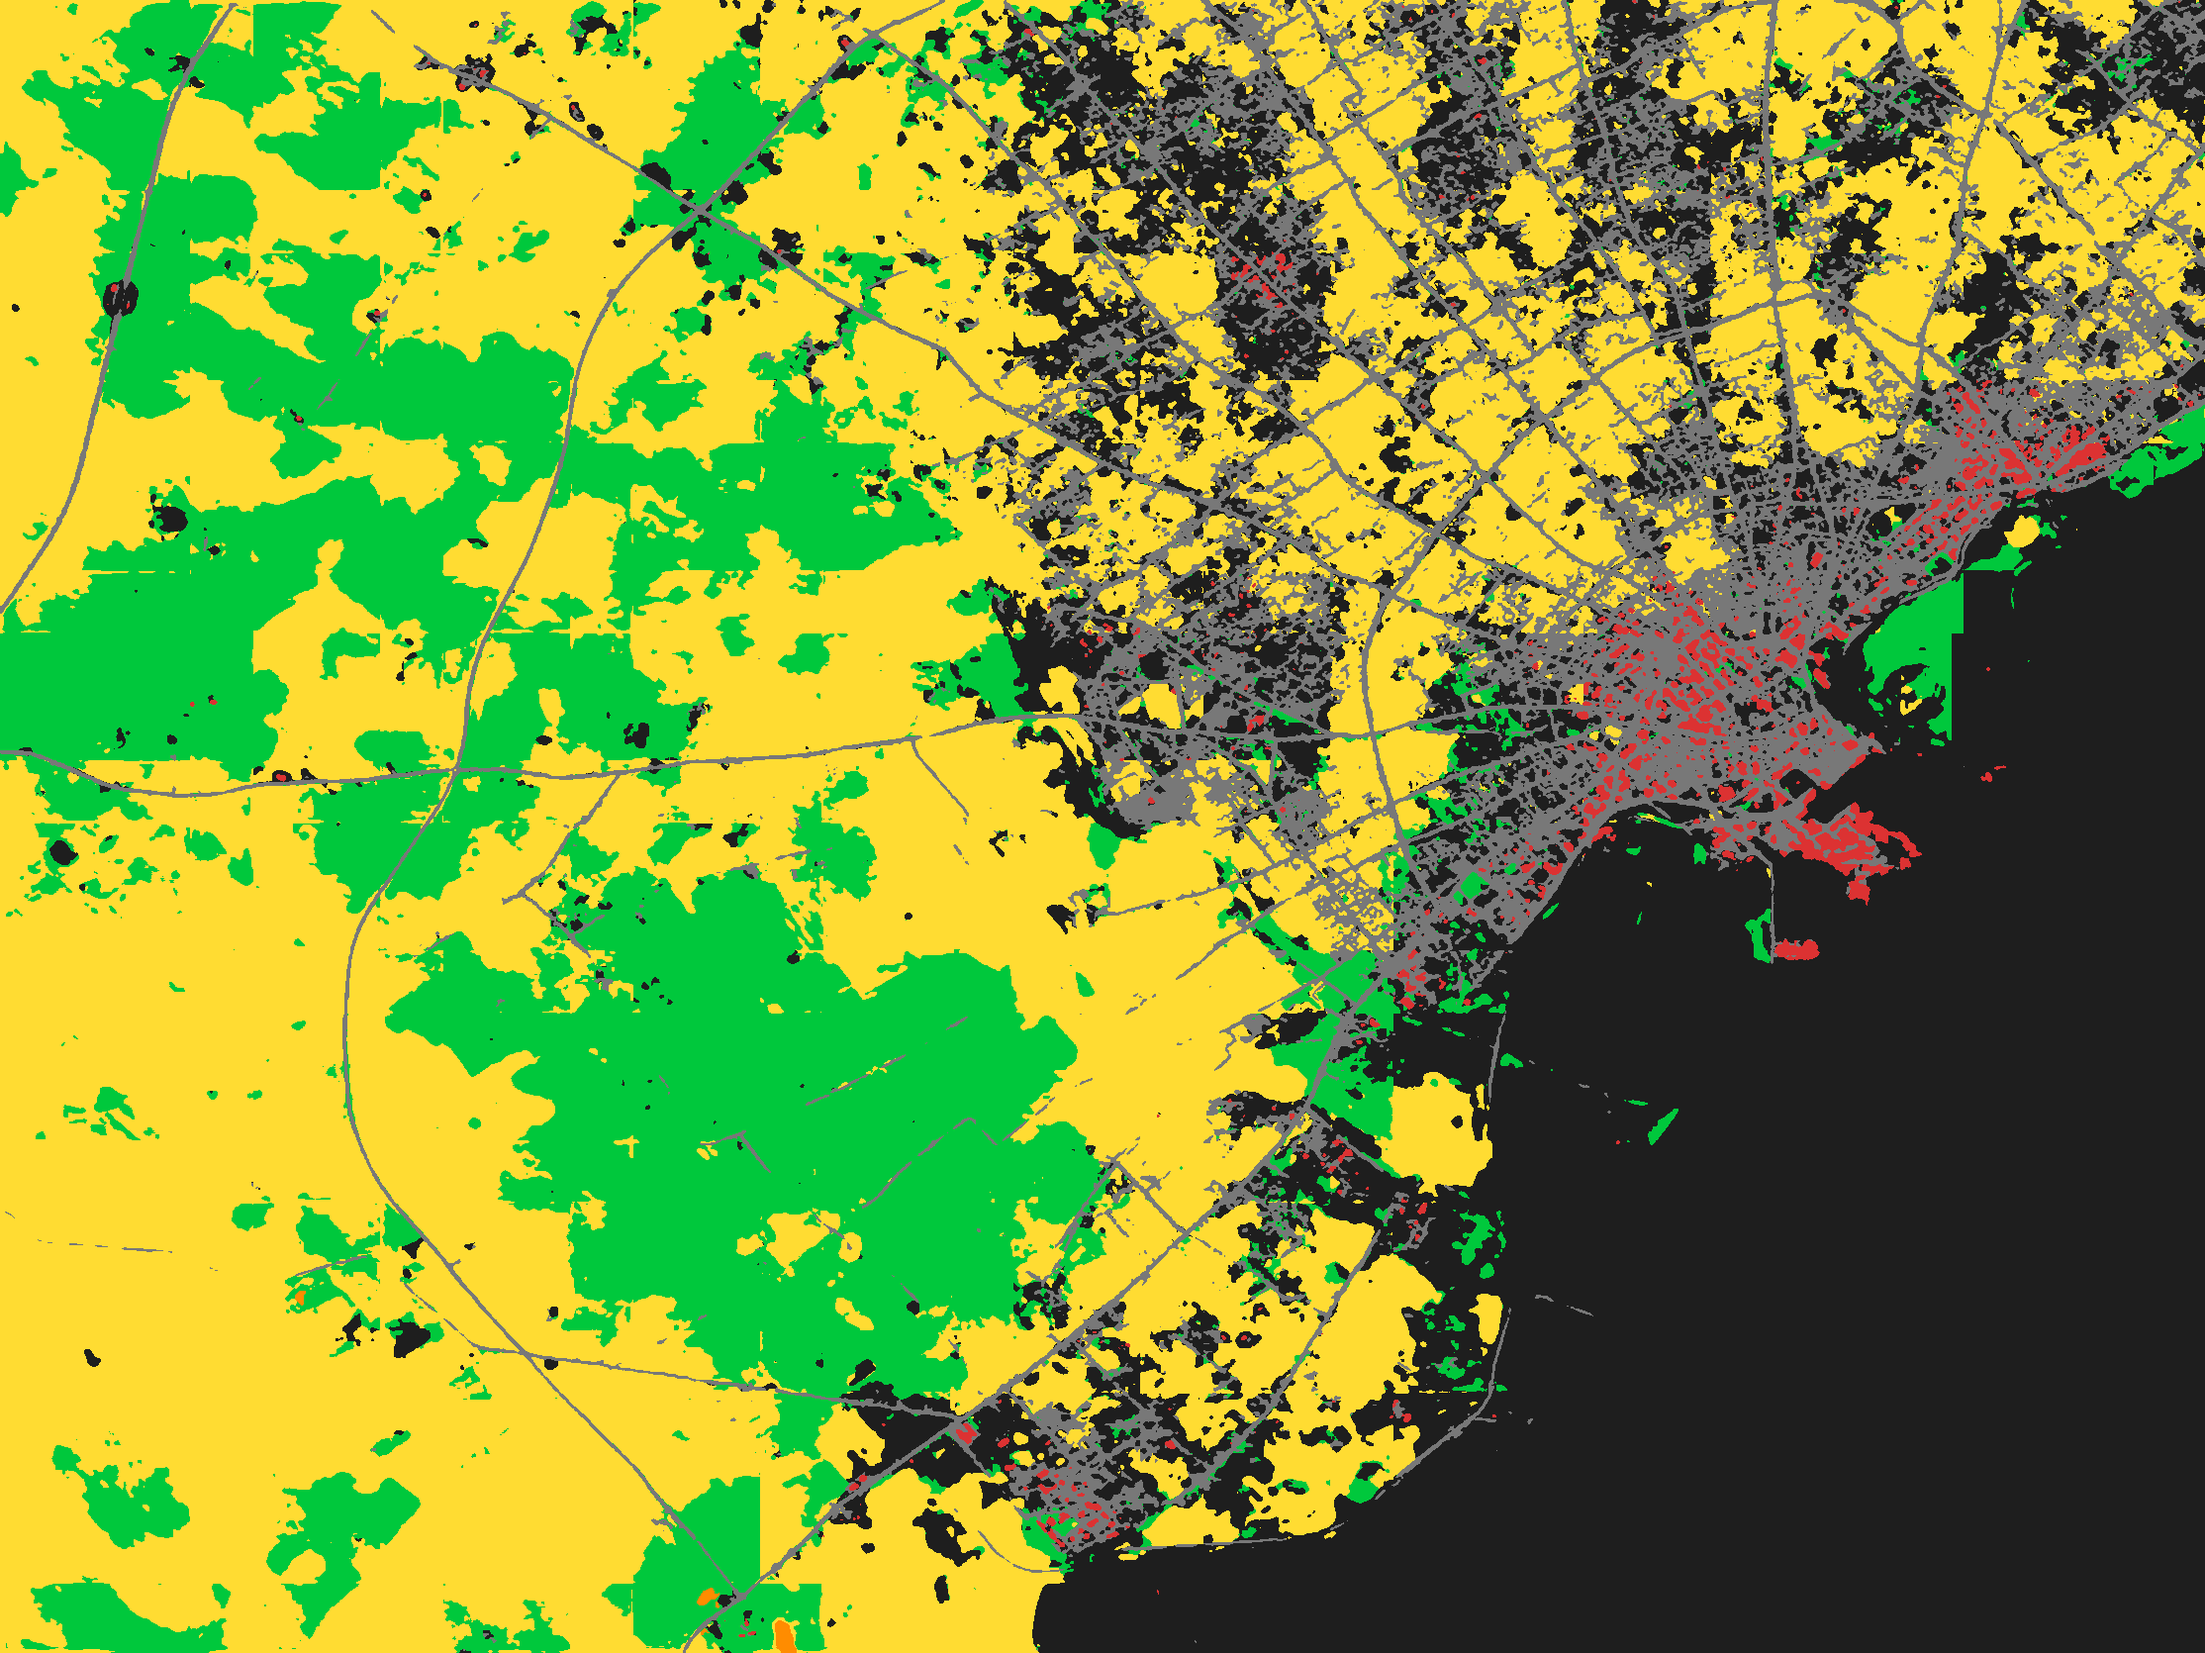
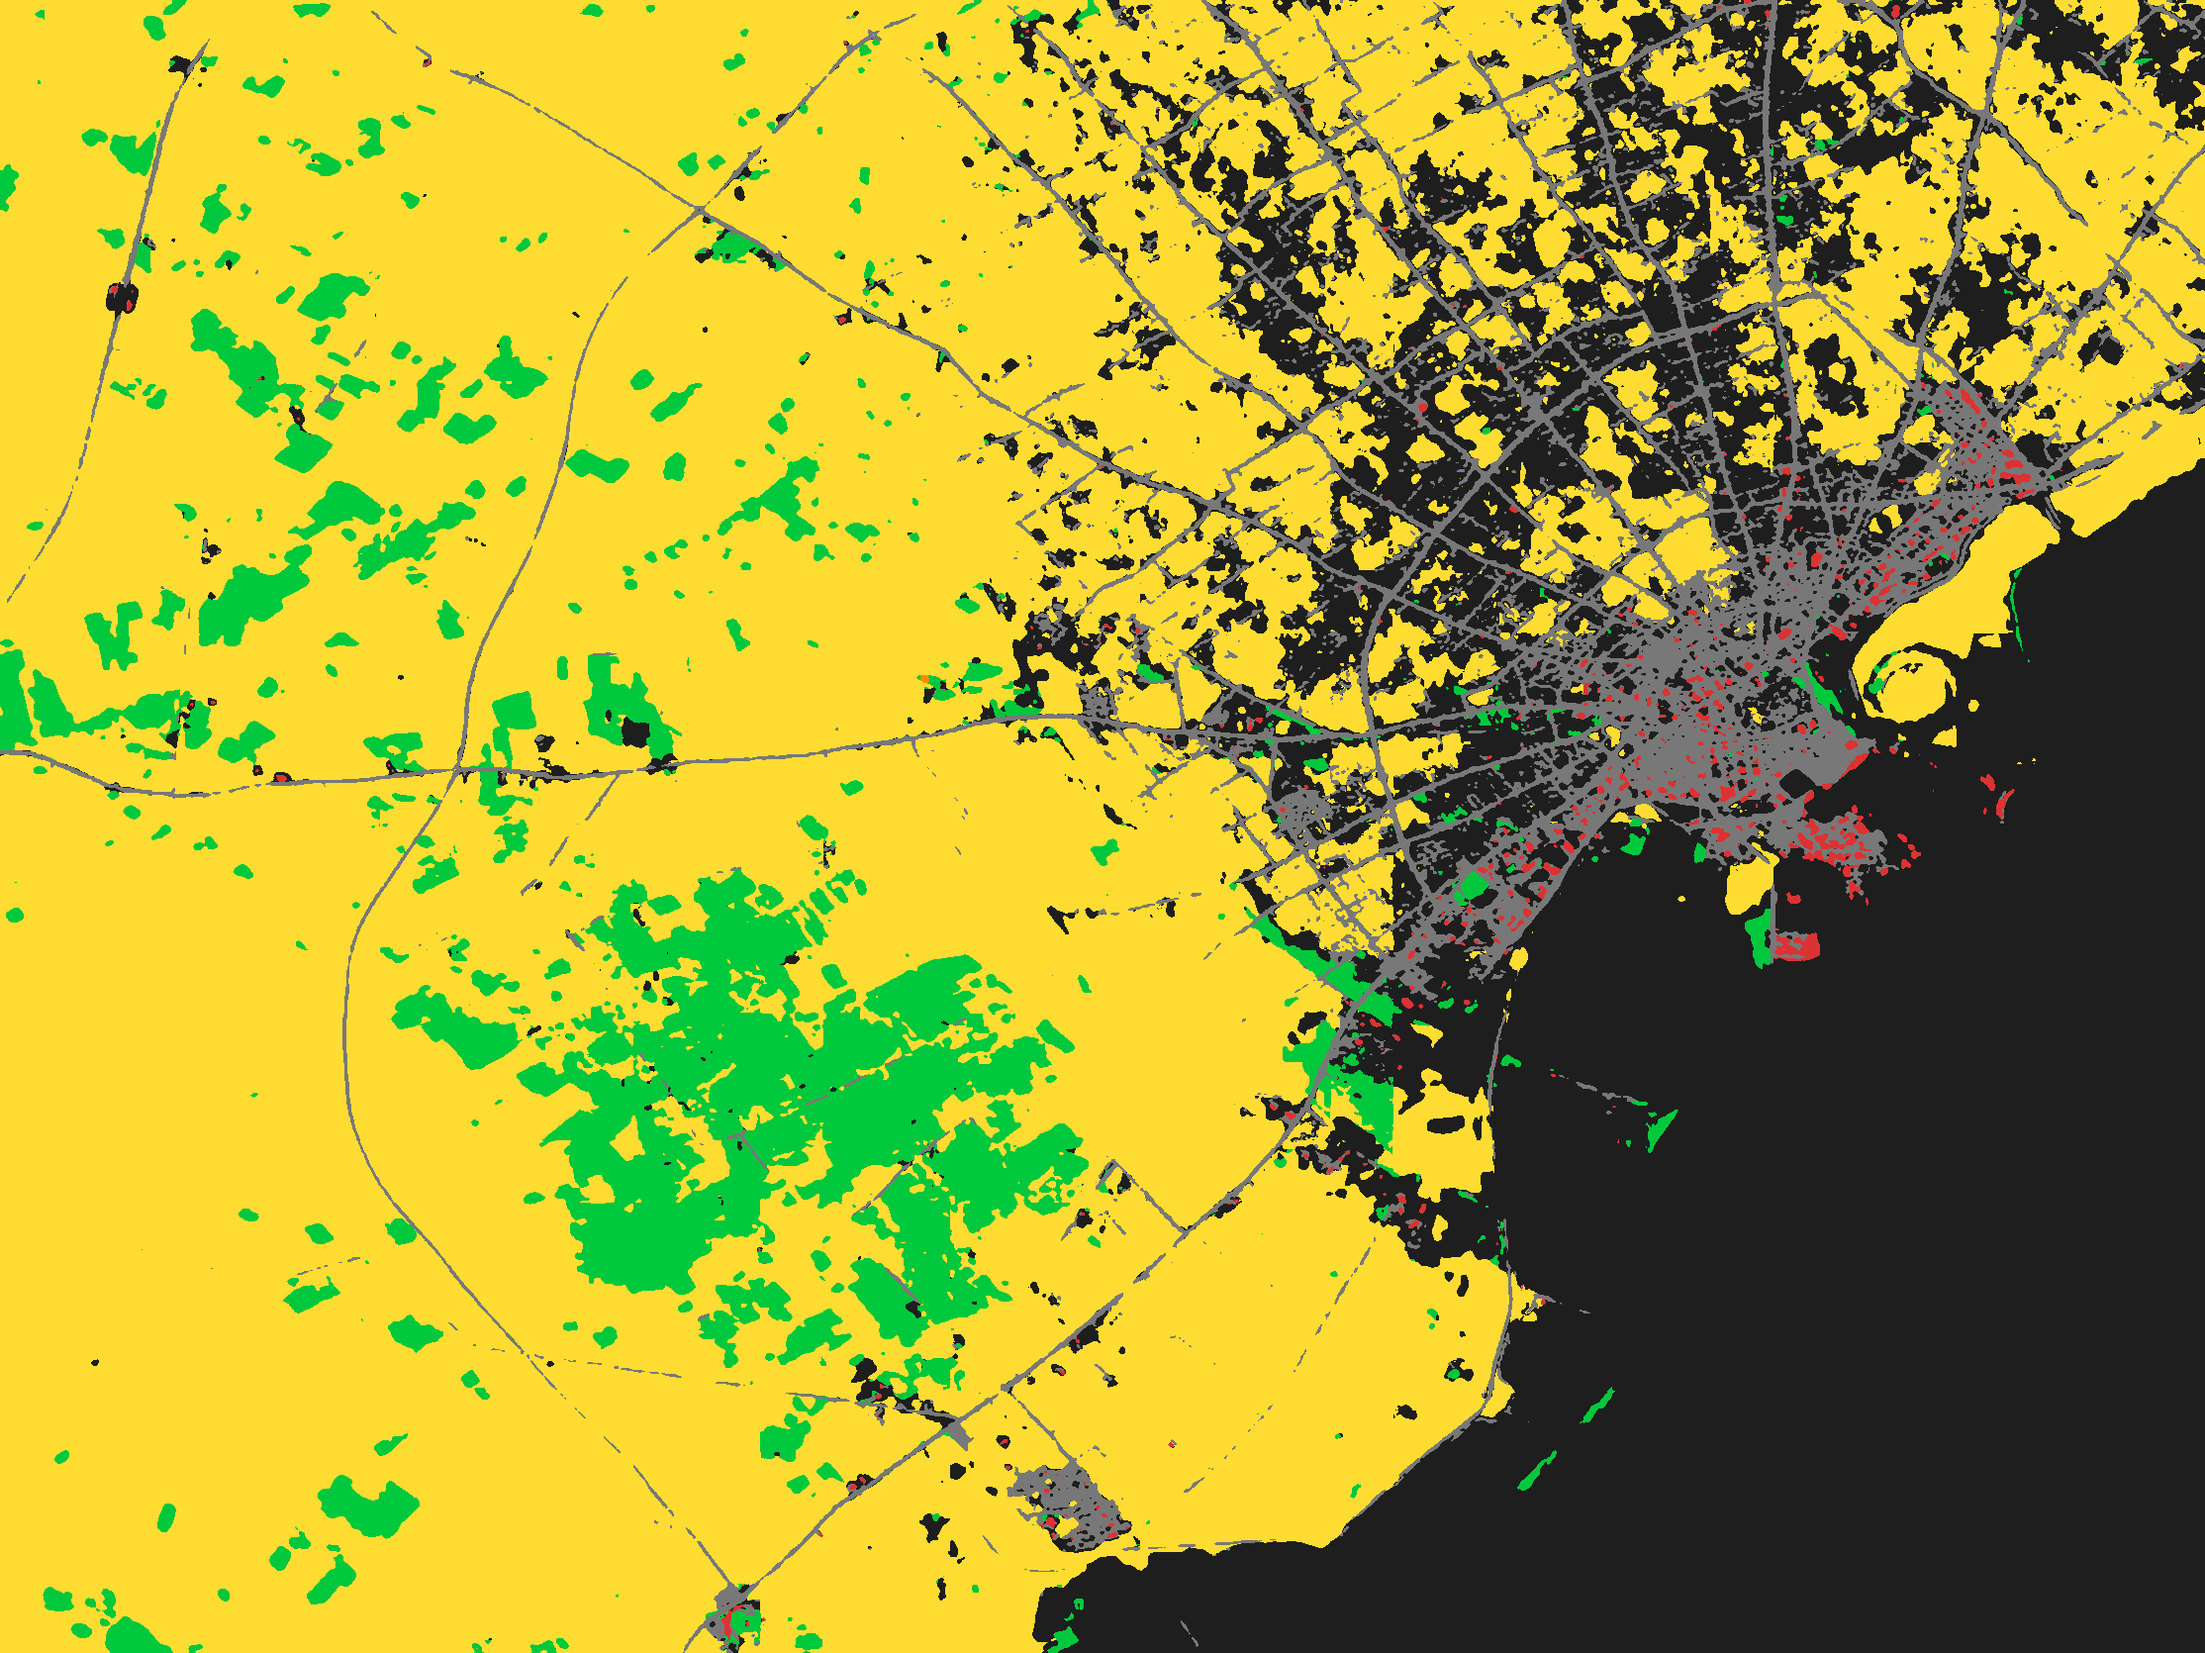
Fix site names using raster coordinates: Sfax city as main image, Bir Ali Ben Khalifa, Kebili, Baza (Granada)

diff --git a/research_paper/ZitounEye_Research_Paper.md b/research_paper/ZitounEye_Research_Paper.md
@@ -72,11 +72,11 @@ To evaluate generalization beyond the training domain, inference was performed o
 
 | Test Site | Coordinates (WGS84) | Location | Landscape |
 |---|---|---|---|
-| **Tunisia 1** | 10.05–10.25°E, 34.70–34.85°N | **Sfax Governorate** (rural/coastal) | Olive plantations in semi-arid Sahel plain |
-| **Tunisia 2** | 10.60–10.80°E, 34.65–34.80°N | **Sfax city area** | Peri-urban olive groves, coastal |
+| **Tunisia 1** | 10.05–10.25°E, 34.70–34.85°N | **Bir Ali Ben Khalifa, Sfax Governorate** (inland, ~60 km W of Sfax) | Olive plantations in semi-arid plain |
+| **Tunisia 2** | 10.60–10.80°E, 34.65–34.80°N | **Sfax city area** (Sfax, Tina, El Hajeb) | Peri-urban olive groves, coastal |
 | **Tunisia 3** | 10.46–10.48°E, 36.66–36.68°N | **Grombalia, Nabeul Governorate** | Agricultural plain, vineyards and olives |
 | **Tunisia 4** | 10.29–10.34°E, 36.61–36.66°N | **Mornag, Ben Arous Governorate** | Suburban Tunis, olive and vine plains |
-| **Tunisia 5** | 8.88–9.08°E, 33.60–33.80°N | **Tozeur region** | Oasis agriculture, desert-margin olives |
+| **Tunisia 5** | 8.88–9.08°E, 33.60–33.80°N | **Kébili region** | Oasis agriculture, desert-margin olives |
 
 ---
 
@@ -324,11 +324,11 @@ The Spain-trained model was applied to five Tunisian test sites without any fine
 - ⚪ **Grey** = Road (class 6)
 - ⚫ **Dark** = Background (class 0)
 
-#### 5.2.1 Sfax Governorate — Rural/Coastal (10.05–10.25°E, 34.70–34.85°N)
+#### 5.2.1 Bir Ali Ben Khalifa, Sfax Governorate (10.05–10.25°E, 34.70–34.85°N)
 
-Covers ~20×15 km of the semi-arid Sahel plain west of Sfax, a region known for extensive rain-fed olive plantations.
+Covers ~20×15 km of the inland semi-arid plain around Bir Ali Ben Khalifa, about 60 km west of Sfax city, a region of extensive rain-fed olive plantations.
 
-![Prediction map — Sfax Governorate rural area, 2227×1671 pixels](figures/pred_sfax_region.png)
+![Prediction map — Bir Ali Ben Khalifa, Sfax Governorate, 2227×1671 pixels](figures/pred_bir_ali_ben_khalifa_sfax.png)
 
 #### 5.2.2 Sfax City Area (10.60–10.80°E, 34.65–34.80°N)
 
@@ -348,23 +348,23 @@ Covers the Mornag/Borj Cedria agricultural plain in the southeastern suburbs of 
 
 ![Prediction map — Mornag plain, Ben Arous (south Tunis suburbs), 558×558 pixels](figures/pred_mornag_ben_arous.png)
 
-#### 5.2.5 Tozeur Region (8.88–9.08°E, 33.60–33.80°N)
+#### 5.2.5 Kébili Region (8.88–9.08°E, 33.60–33.80°N)
 
-Covers ~20×20 km near Tozeur in southwestern Tunisia, characterized by oasis agriculture and desert-margin landscapes near Chott el-Jerid.
+Covers ~20×20 km around Kébili in southern Tunisia, characterized by oasis agriculture and desert-margin landscapes on the eastern edge of Chott el-Jerid.
 
-![Prediction map — Tozeur region (oasis/desert-margin), 2227×2227 pixels](figures/pred_tozeur.png)
+![Prediction map — Kébili region (oasis/desert-margin), 2227×2227 pixels](figures/pred_kebili.png)
 
-### 5.3 Spanish 4-Season True Multi-Temporal Predictions (Jaén)
+### 5.3 Spanish 4-Season True Multi-Temporal Predictions (Eastern Andalusia)
 
-These predictions use the **full 4-season input** (true 56-band stack from spring, summer, fall, and winter Sentinel-2 composites) on a Jaén province tile — demonstrating the model's best-case performance when all temporal information is available. Produced by `predict_4season.py` which explicitly loads `final_20260620_104109_best.pth`.
+These predictions use the **full 4-season input** (true 56-band stack from spring, summer, fall, and winter Sentinel-2 composites) on the Jaén imagery tile, which extends into neighbouring Granada — demonstrating the model's best-case performance when all temporal information is available. Produced by `predict_4season.py` which explicitly loads `final_20260620_104109_best.pth`.
 
-#### Window 0 (2500×2500 pixels — northwest corner of tile)
+#### Pozo Alcón, Jaén (2500×2500 pixels)
 
-![Prediction on Jaén 4-season data, Window 0 (2500×2500 px)](figures/pred_jaen_4season_w0.png)
+![Prediction on 4-season data, Pozo Alcón, Jaén (2500×2500 px)](figures/pred_pozo_alcon_jaen_4season.png)
 
-#### Window 1 (2500×2500 pixels — olive grove heartland)
+#### Caniles / Baza, Granada (2500×2500 pixels)
 
-![Prediction on Jaén 4-season data, Window 1 (2500×2500 px)](figures/pred_jaen_4season_w1.png)
+![Prediction on 4-season data, Caniles/Baza, Granada (2500×2500 px)](figures/pred_baza_granada_4season.png)
 
 ---
 
@@ -432,7 +432,7 @@ The multi-temporal approach substantially mitigates this issue via the winter co
 
 ### 7.4 Cross-Border Generalization
 
-The successful qualitative detection of olive groves in Tunisia — a country with different climate (more arid), soil types (calcareous), and cultivation practices — demonstrates the robustness of learned spectral-temporal features. The Sfax Governorate and Tozeur region in particular show high-confidence olive detections in areas known for extensive olive cultivation. However, systematic quantitative evaluation on Tunisian ground truth would be needed to fully validate cross-domain performance.
+The successful qualitative detection of olive groves in Tunisia — a country with different climate (more arid), soil types (calcareous), and cultivation practices — demonstrates the robustness of learned spectral-temporal features. The Sfax Governorate and Kébili region in particular show high-confidence olive detections in areas known for extensive olive cultivation. However, systematic quantitative evaluation on Tunisian ground truth would be needed to fully validate cross-domain performance.
 
 ### 7.5 Limitations
 
@@ -453,7 +453,7 @@ ZitounEye demonstrates that automated olive grove detection from freely availabl
 
 3. **Spatial cross-validation**: Province-level train/val/test splits prevent data leakage and provide an honest estimate of the model's ability to generalize to unseen geographic areas.
 
-4. **Cross-border inference**: The Spain-trained model produces qualitatively plausible olive grove maps when applied to Tunisian imagery from five distinct sites (Sfax, Grombalia, Mornag, Tozeur), suggesting that learned spectral-temporal features are transferable across Mediterranean olive-growing regions.
+4. **Cross-border inference**: The Spain-trained model produces qualitatively plausible olive grove maps when applied to Tunisian imagery from five distinct sites (Sfax, Bir Ali Ben Khalifa, Grombalia, Mornag, Kébili), suggesting that learned spectral-temporal features are transferable across Mediterranean olive-growing regions.
 
 5. **Interactive deployment**: A web application with FastAPI backend and Leaflet frontend enables non-expert users to draw a region on a map and receive olive grove classification results in seconds.
 

diff --git a/README.md b/README.md
@@ -12,10 +12,10 @@
 > ZitounEye is a deep-learning model that looks at Sentinel-2 satellite imagery and labels every 10 m pixel as olive grove, vineyard, orchard, arable land, building, road or background.
 
 <p align="center">
-  <img src="research_paper/figures/pred_sfax_region.png" width="49%" alt="ZitounEye prediction over the Sfax olive belt, Tunisia"/>
-  <img src="research_paper/figures/pred_jaen_4season_w1.png" width="49%" alt="ZitounEye prediction over Jaén, Spain"/>
+  <img src="research_paper/figures/pred_sfax_city.png" width="49%" alt="Zitoun Eye prediction over Sfax, Tunisia"/>
+  <img src="research_paper/figures/pred_baza_granada_4season.png" width="49%" alt="Zitoun Eye prediction over Baza, Granada, Spain"/>
   <br/>
-  <em>Left: Sfax, Tunisia (the model was never trained on Tunisian labels). Right: Jaén, Spain (the training domain). 🟢 = olive grove</em>
+  <em>Left: Sfax city and its olive belt, Tunisia (the model was never trained on Tunisian labels). Right: Baza, Granada, Andalusia, Spain (full 4-season input). 🟢 = olive grove</em>
 </p>
 
 ---
@@ -112,19 +112,19 @@ Adding more provinces gave the clearest improvement, which supports the idea tha
 
 ### 🇹🇳 Tunisia: transfer with no Tunisian labels
 
-| Sfax Governorate (rural Sahel olive belt) | Sfax city & peri-urban groves |
+| Sfax city & surrounding olive groves (10.60–10.80°E, 34.65–34.80°N) | Bir Ali Ben Khalifa, Sfax Governorate, ~60 km inland (10.05–10.25°E, 34.70–34.85°N) |
 |---|---|
-| ![Sfax region](research_paper/figures/pred_sfax_region.png) | ![Sfax city](research_paper/figures/pred_sfax_city.png) |
-| **Tozeur (oasis / desert margin)** | **Mornag, Ben Arous (south of Tunis)** |
-| ![Tozeur](research_paper/figures/pred_tozeur.png) | ![Mornag](research_paper/figures/pred_mornag_ben_arous.png) |
+| ![Sfax city](research_paper/figures/pred_sfax_city.png) | ![Bir Ali Ben Khalifa](research_paper/figures/pred_bir_ali_ben_khalifa_sfax.png) |
+| **Kébili (oasis / desert margin, 8.88–9.08°E, 33.60–33.80°N)** | **Mornag, Ben Arous (south of Tunis)** |
+| ![Kébili](research_paper/figures/pred_kebili.png) | ![Mornag](research_paper/figures/pred_mornag_ben_arous.png) |
 
-The Sfax region, one of the densest olive landscapes in the world, comes out as large, coherent olive (green) blocks, without any Tunisian training data.
+Around Sfax, the model separates the city (roads, buildings) and the coast from the olive groves (green) to the south-west, and at Bir Ali Ben Khalifa it finds large olive blocks inland, all without any Tunisian training data.
 
-### 🇪🇸 Spain: full 4-season input (best case)
+### 🇪🇸 Spain: full 4-season input (best case, eastern Andalusia)
 
-| Jaén, window 0 | Jaén, window 1 (olive heartland) |
+| Pozo Alcón, Jaén | Caniles / Baza, Granada |
 |---|---|
-| ![Jaén w0](research_paper/figures/pred_jaen_4season_w0.png) | ![Jaén w1](research_paper/figures/pred_jaen_4season_w1.png) |
+| ![Pozo Alcón](research_paper/figures/pred_pozo_alcon_jaen_4season.png) | ![Baza](research_paper/figures/pred_baza_granada_4season.png) |
 
 The georeferenced GeoTIFFs for all of these maps are in [`results/`](results/) and can be opened directly in **QGIS** or Google Earth.
 
@@ -135,7 +135,7 @@ Colours: 🟢 olive · 🟣 vineyard · 🟠 orchard · 🟡 arable · 🔴 buil
 ## ⚠ Honest limitations
 
 - **No Tunisian ground truth yet.** The Tunisia results are checked by eye against known olive regions, not scored. Measuring accuracy needs a labelled Tunisian sample.
-- **Single-season inference is weaker.** When one season is copied into all four slots, the model loses the evergreen signal it relies on most. Visible square tile seams in some Tunisian maps (e.g. Sfax) come from this and from the sliding-window patching.
+- **Single-season inference is weaker.** When one season is copied into all four slots, the model loses the evergreen signal it relies on most. Visible square tile seams in some Tunisian maps (e.g. Bir Ali Ben Khalifa) come from this and from the sliding-window patching.
 - **Domain shift.** Tunisian soils are more calcareous and the climate is drier, and traditional Sfax groves are much sparser (~17–20 trees/ha) than Andalusian ones.
 - The Huelva test province has not yet been scored with this checkpoint.
 
